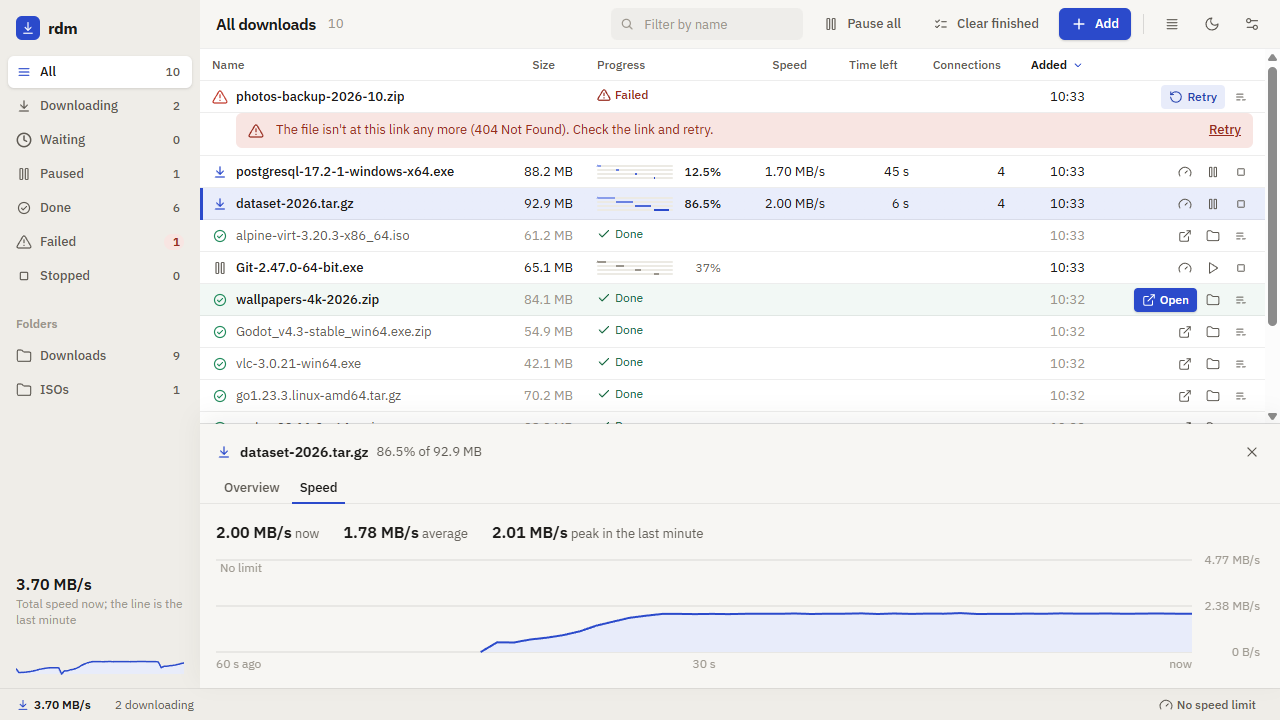
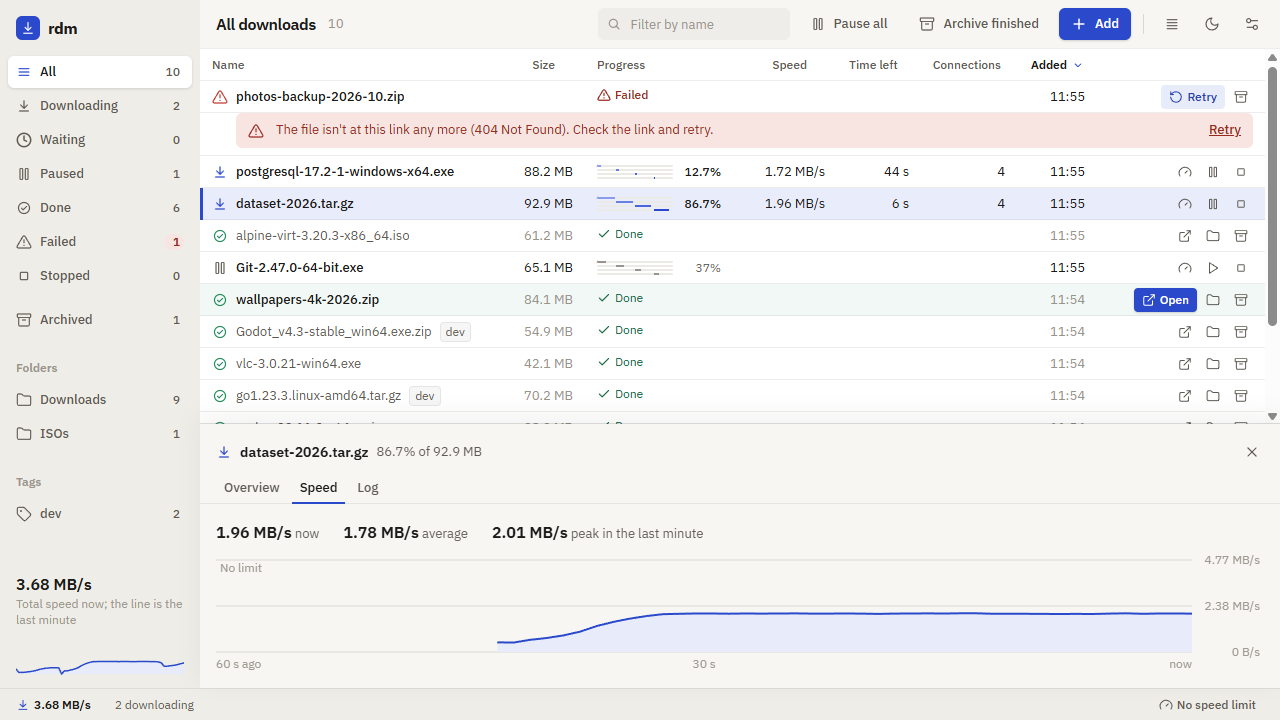
fix(gui): remove only rows still archived, and show tags in the screenshots
The Remove dialog re-reads its rows on confirm, so one resumed or
unarchived while it was open stays. The screenshot run tags two downloads
and archives one, so the main view shows the Archived and Tags entries.

diff --git a/gui/e2e/screenshots/console.shots.ts b/gui/e2e/screenshots/console.shots.ts
@@ -13,6 +13,7 @@ import {
   downloadDir,
   invoke,
   rowById,
+  rowSelector,
   settingsButton,
   waitForGone,
   waitForStatus,
@@ -25,9 +26,9 @@ const isoDir = path.join(downloadDir, "ISOs");
 /** A fixture URL serving `bytes` bytes (ranges supported) under the file name `name`. */
 const file = (bytes: number, name: string) => `${baseUrl}/seg/${Math.round(bytes)}/${name}`;
 
-/** Adds a download through the backend and waits for its row. */
-async function add(url: string, dir = downloadDir): Promise<number> {
-  const id = await invoke<number>("add_download", { url, dir });
+/** Adds a download (with `tags`) through the backend and waits for its row. */
+async function add(url: string, dir = downloadDir, tags: string[] = []): Promise<number> {
+  const id = await invoke<number>("add_download", { url, dir, tags });
   await rowById(id).waitForExist({ timeoutMsg: `${url} never showed a row` });
   return id;
 }
@@ -77,12 +78,18 @@ describe("README screenshots", () => {
     // Finished downloads.
     const done = [
       await add(file(29.6 * MB, "node-v22.11.0-x64.msi")),
-      await add(file(73.6 * MB, "go1.23.3.linux-amd64.tar.gz")),
+      await add(file(73.6 * MB, "go1.23.3.linux-amd64.tar.gz"), downloadDir, ["dev"]),
       await add(file(44.1 * MB, "vlc-3.0.21-win64.exe")),
-      await add(file(57.6 * MB, "Godot_v4.3-stable_win64.exe.zip")),
+      await add(file(57.6 * MB, "Godot_v4.3-stable_win64.exe.zip"), downloadDir, ["dev"]),
       await add(file(88.2 * MB, "wallpapers-4k-2026.zip")),
     ];
     for (const id of done) await waitForStatus(id, "completed", 120_000);
+
+    // An archived one, counted under Archived.
+    const old = await add(file(12.4 * MB, "photos-2025.zip"), downloadDir, ["photos"]);
+    await waitForStatus(old, "completed", 120_000);
+    await invoke("archive", { ids: [old] });
+    await waitForGone(rowSelector(old));
 
     // A failed one: the server answers 404.
     const failed = await add(`${baseUrl}/missing/photos-backup-2026-10.zip`);

diff --git a/gui/src/App.tsx b/gui/src/App.tsx
@@ -28,7 +28,14 @@ import { keyCommand } from "./lib/keymap";
 import { menuItems, selectionActions, type MenuCommand, type MenuEntry } from "./lib/menu";
 import { loadConfirmRemove, saveConfirmRemove } from "./lib/prefs";
 import { dropIndex, queueOrder, stepIndex } from "./lib/queue";
-import { continues, isPausable, isStoppable, pauseAllMode, totalSpeed } from "./lib/rowView";
+import {
+  continues,
+  isPausable,
+  isRemovable,
+  isStoppable,
+  pauseAllMode,
+  totalSpeed,
+} from "./lib/rowView";
 import { selectedInOrder, type Modifiers } from "./lib/selection";
 import { arrangeRows, DEFAULT_SORT, isVolatile, nextSort, rankOf, type SortKey } from "./lib/sort";
 import { hasTag, tagCounts } from "./lib/tags";
@@ -205,7 +212,12 @@ export default function App() {
     setTimeout(() => focusIsFree() && tableRef.current?.focus({ preventScroll: true }));
   }, []);
   const confirmRemoveRows = (dontAsk: boolean) => {
-    const rows = removeRows ?? [];
+    // Only what's still archived and finished: a row resumed or unarchived
+    // while the dialog was open stays.
+    const rows = (removeRows ?? []).flatMap((r) => {
+      const d = byId(r.id);
+      return d && d.archived && isRemovable(d) ? [d] : [];
+    });
     setRemoveRows(null);
     if (dontAsk) updateConfirmRemove(false);
     removeNow(rows);

diff --git a/README.md b/README.md
@@ -6,7 +6,7 @@ command-line tool and a desktop app.
 
 <picture>
   <source media="(prefers-color-scheme: dark)" srcset="docs/screenshots/main-dark.png">
-  <img alt="The rdm desktop app: a sidebar of status and folder filters, and a table of downloads that are done, downloading, waiting, paused and failed" src="docs/screenshots/main-light.png">
+  <img alt="The rdm desktop app: a sidebar of status, folder and tag filters, and a table of downloads that are done, downloading, waiting, paused and failed" src="docs/screenshots/main-light.png">
 </picture>
 
 ## Highlights
